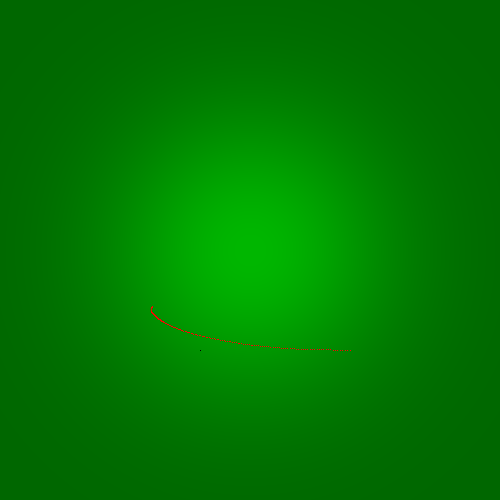
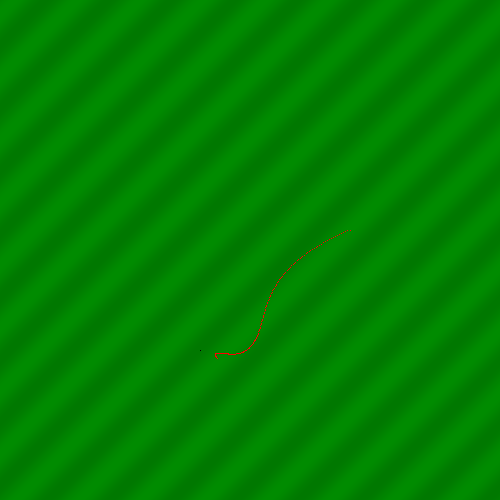
up

diff --git a/src/main/java/solvers/MapHandler.java b/src/main/java/solvers/MapHandler.java
@@ -11,13 +11,17 @@ import javax.imageio.ImageIO;
 import java.awt.Color;
 
 public class MapHandler {
+    private int[][] redAry;
+    private int[][] blueAry;
+    private double[][][] gradient;
+
     /**
      * Read the map and store the gradient.
      *
      * @param mappath the dir path
      * @return the gradient array double [ ] [ ] [ ]
      */
-    public double[][][] readmap(String mappath){
+    public void readmap(String mappath){
         int width = 20;
         int height = 20;
         BufferedImage image = null;
@@ -33,16 +37,18 @@ public class MapHandler {
             System.out.println("Error: " + e);
         }
         int[][] gAry=new int[width][height];
+        redAry=new int[width][height];
+        blueAry=new int[width][height];
         for (int i = 0; i < width; i++) {
             for (int j = 0; j < height; j++) {
                 int rgb = image.getRGB(i, j); // Get the RGB value at a specific pixel
-                int r = (rgb >> 16) & 0xFF;   // Red component, Red is the friction, 0-255
+                redAry[i][j] = (rgb >> 16) & 0xFF;   // Red component, Red is the friction, 0-255
                 gAry[i][j] = (rgb >> 8) & 0xFF;    // Green component, Green is the height, 0-255. 
-                int b = rgb & 0xFF; 
+                blueAry[i][j] = rgb & 0xFF; 
             }
         }
 
-        double[][][] gradient=new double[width][height][2];
+        gradient=new double[width][height][2];
         for (int i = 0; i < width-1; i++) {
             for (int j = 0; j < height-1; j++) {
                 for(int k=0;k<2;k++){
@@ -50,10 +56,16 @@ public class MapHandler {
                 }
             }
         }
-        return gradient;
-        
     }
-
+    public int[][] getRed(){
+        return this.redAry;
+    }
+    public int[][] getBlue(){
+        return this.blueAry;
+    }
+    public double[][][] getGradient(){
+        return this.gradient;
+    }
     /**
      * Plot trajectory.
      *
@@ -117,7 +129,8 @@ public class MapHandler {
 
     private int heightFunction(double x, double y){
         // translate x,y from (0,500) to (-10,10), 
-        int h=(int) (-((0.4*(0.9-Math.exp(-(Math.pow(x/50-5, 2)+Math.pow(y/50-5, 2))/8))))*100+125);
+        // int h=(int) (-((0.4*(0.9-Math.exp(-(Math.pow(x/10-25, 2)+Math.pow(y/10-25, 2))/8))))*120+125);
+        int h=(int) ((Math.sin(x/10+y/10-50)+0.5)*10+125);
 
 
         // String func = "255 - ((0.4 * (0.9 - e^(-(((x / 50 - 5)^2 + (y / 50 - 5)^2) / 8)))) * 200 + 80)";

diff --git a/src/main/java/solvers/golfgame.java b/src/main/java/solvers/golfgame.java
@@ -1,7 +1,9 @@
 package solvers;
 import java.util.ArrayList;
 import java.util.Arrays;
+import java.util.HashSet;
 import java.util.List;
+import java.util.Set;
 
 /** 
  * The main engine
@@ -57,7 +59,10 @@ public class GolfGame {
         
         
         //Read the map, store the gradient 
-        double[][][] mapgradient=map.readmap(mappath);
+        map.readmap(mappath);
+        double[][][] mapgradient=map.getGradient();
+        int[][] redElm=map.getRed();
+        int[][] blueElm=map.getBlue();
         this.minDis=getDistance(x, hole);
         double dis=100;
         //loop untill ball stop or out of court
@@ -81,6 +86,11 @@ public class GolfGame {
                 xtrac.add(x.clone());
             }
             this.stopCoordinate=x.clone();
+            // bouncing with tree
+            if (blueElm[(int)Math.floor(x[0]*10)][(int)Math.floor(x[1]*10)]>=30 && redElm[(int)Math.floor(x[0]*10)][(int)Math.floor(x[1]*10)]>=30) {
+                
+            }
+
         }
         return xtrac;
     }
@@ -144,6 +154,38 @@ public class GolfGame {
         return this.stopCoordinate;
     }
 
-    
+    public void findTreeCenter(int x, int y,int[][] matrix ){
+        Set<Integer> xSet=new HashSet<>();
+        Set<Integer> ySet=new HashSet<>();
+        findTree(x, y, xSet, ySet, matrix);
+        int xSum=0;
+        for (Integer i : xSet) {
+            xSum=xSum+i;
+        }
+        int ySum=0;
+        for (Integer i : ySet) {
+            ySum=ySum+i;
+        }
+        int xCenter=(int) xSum/xSet.size();
+        int yCenter=(int) ySum/ySet.size();
+        System.out.println(xCenter + "  "+ yCenter);
+    }
+    public void findTree(int x, int y, Set<Integer> xSet, Set<Integer> ySet,int[][] matrix){
+        if (xSet.contains(x) && ySet.contains(y)) {
+            return;
+        }
+        if (matrix[x][y]>20) {
+            xSet.add(x);
+            ySet.add(y);
+            findTree(x-1, y, xSet, ySet, matrix);
+            findTree(x, y-1, xSet, ySet, matrix);
+            findTree(x+1, y, xSet, ySet, matrix);
+            findTree(x, y+1, xSet, ySet, matrix);
+        }else{
+            return;
+        }
+    }
+
+
     
 }

diff --git a/src/main/java/solvers/test.java b/src/main/java/solvers/test.java
@@ -13,7 +13,7 @@ public class test {
     public static void main(String[] args) {
         MapHandler map=new MapHandler();
         
-        double[] x={10,-10,-5,-0.45};
+        double[] x={10,2,-5,-0.45};
         double[] a={0.06,0.10};             // a[0] is kenitic friction. a[1] is Static friction
         double dt=0.05;
         double[] hole={-5,-10};
@@ -21,10 +21,14 @@ public class test {
         
         
         // set map path
-        String inputPath="target/classes/createdmap.png";
+        String inputPath="target/classes/plain.png";
         String outputPath="output/outplot.png";
 
-        // GolfGame g=new GolfGame(new RK4(), a, dt, hole,r,inputPath);
+        GolfGame g=new GolfGame(new RK4(), a, dt, hole,r,inputPath);
+
+        map.readmap(inputPath);
+        int[][] m=map.getBlue();
+        g.findTreeCenter(200, 220, m);
 
         // AiBot bot=new AiBot(g);
         // bot.golfbot(x);
@@ -37,7 +41,7 @@ public class test {
         // System.out.println(g.getMinDistance());
 
         // create map by function
-        map.createMap(inputPath);
+        // map.createMap(inputPath);
 
         // ArrayList<double[]> xpath=g.shoot(new RK4(), x, a, dt, hole,r,inputPath);
         // System.out.println(Arrays.toString(xpath.get(0)));
